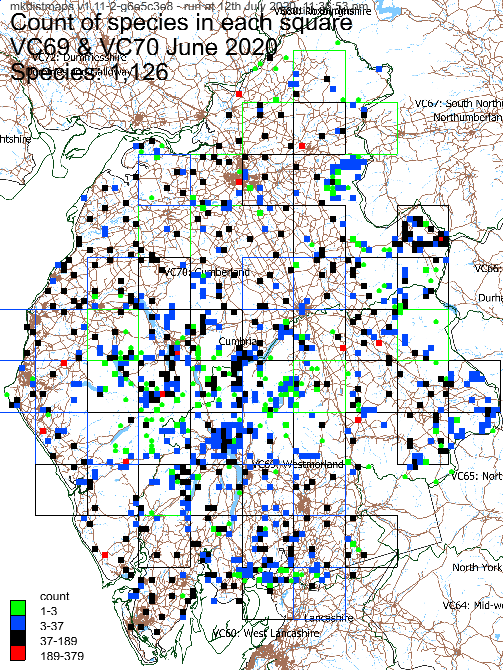
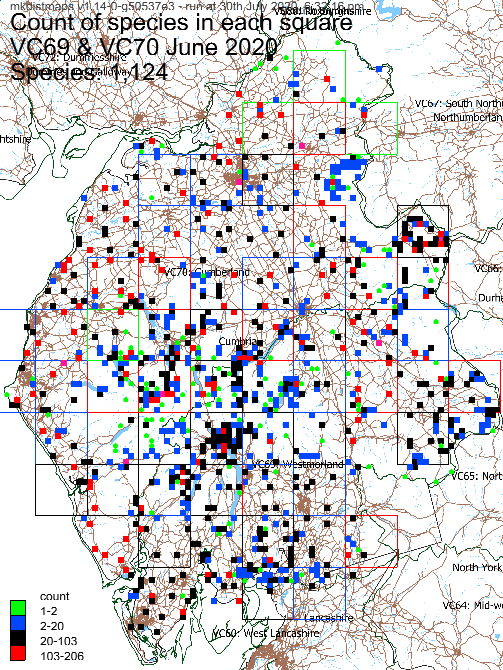
Fix species counts and total

diff --git a/mkdistmaps.js b/mkdistmaps.js
@@ -323,21 +323,27 @@ async function run(argv) {
 const speciesesGrids = {}
 let speciesCount = 0
 let genusCount = 0
+let allCount = 0;
 const errors = []
 let lineno = 0
 let records = 0
 let empties = 0
 const boxes = {}
 
-function updateSpeciesesGrids(TaxonName, box, Year, isGenus, fileSpecieses, makeAllSpeciesMapTaxon) {
+function updateSpeciesesGrids(TaxonName, box, Year, isGenus, fileSpecieses, inTotal, makeAllSpeciesMapTaxon) {
   if (isGenus) TaxonName += ' -all'
   let speciesGrids = speciesesGrids[TaxonName]
   if (!speciesGrids) {
-    speciesGrids = { max: 0, boxes: {} }
+    speciesGrids = { max: 0, speciesmax: 0, boxes: {} }
     speciesGrids.boxes[box] = { count: 0, minyear: 3000, maxyear: 0, species: [] }
     speciesesGrids[TaxonName] = speciesGrids
-    if (isGenus) genusCount++
-    else speciesCount++
+    if (inTotal) {
+      if (isGenus) genusCount++
+      else speciesCount++
+    } else {
+      allCount++
+    }
+
   }
   if (!speciesGrids.boxes[box]) {
     speciesGrids.boxes[box] = { count: 0, minyear: 3000, maxyear: 0, species: [] }
@@ -364,7 +370,11 @@ function updateSpeciesesGrids(TaxonName, box, Year, isGenus, fileSpecieses, make
   if (makeAllSpeciesMapTaxon) {
     if (!speciesGrids.boxes[box].species.includes(makeAllSpeciesMapTaxon)) {
       speciesGrids.boxes[box].species.push(makeAllSpeciesMapTaxon)
-      speciesGrids.boxes[box].count = speciesGrids.boxes[box].species.length
+      const totalspecies = speciesGrids.boxes[box].species.length
+      speciesGrids.boxes[box].count = totalspecies
+      if (totalspecies > speciesGrids.speciesmax) {
+        speciesGrids.speciesmax = totalspecies
+      }
     }
   }
 }
@@ -545,19 +555,19 @@ function processLine(file, row, fileSpecieses) {
   }
 
   // Add/Update record for species ie count, min and max year for each box
-  updateSpeciesesGrids(TaxonName, box, Year, false, fileSpecieses, false)
+  updateSpeciesesGrids(TaxonName, box, Year, false, fileSpecieses, true, false)
 
   if (config.makeAllMap) {
-    updateSpeciesesGrids(makeAllMapName, box, Year, false, fileSpecieses, false)
+    updateSpeciesesGrids(makeAllMapName, box, Year, false, fileSpecieses, false, false)
   }
 
   if (config.makeAllSpeciesMap) {
-    updateSpeciesesGrids(makeAllSpeciesMapName, box, Year, false, fileSpecieses, TaxonName)
+    updateSpeciesesGrids(makeAllSpeciesMapName, box, Year, false, fileSpecieses, false, TaxonName)
   }
 
   if (config.makeGenusMaps) {
     const words = TaxonName.split(' ')
-    updateSpeciesesGrids(words[0], box, Year, true, fileSpecieses, false)
+    updateSpeciesesGrids(words[0], box, Year, true, fileSpecieses, true, false)
   }
 }
 
@@ -577,7 +587,7 @@ async function importComplete(rowCount) {
   for (let i = 0; i < errors.length; i++) {
     console.error('#' + i, errors[i])
   }
-  if ((genusCount + speciesCount) !== Object.keys(speciesesGrids).length) {
+  if ((genusCount + speciesCount + allCount) !== Object.keys(speciesesGrids).length) {
     console.error('Taxon/Species/Grids mismatch:', genusCount, speciesCount, Object.keys(speciesesGrids).length)
   }
   console.log('Species:', speciesCount.toLocaleString('en'))
@@ -595,22 +605,23 @@ async function importComplete(rowCount) {
 }
 
 ///////////////////////////////////////////////////////////////////////////////////////
-function setCountColours(speciesGrids) {
+function setCountColours(speciesGrids, isAllSpeciesMap) {
   let next = 1
+  const max = isAllSpeciesMap ? speciesGrids.speciesmax : speciesGrids.max
   for (const countcolour of Object.values(config.countcolours)) {
     countcolour.imin = countcolour.min
     if (typeof countcolour.min === 'string') {
-      countcolour.imin = Math.floor(parseFloat(countcolour.min) * speciesGrids.max / 100)
+      countcolour.imin = Math.floor(parseFloat(countcolour.min) * max / 100)
     }
     countcolour.imax = countcolour.max
     if (typeof countcolour.max === 'string') {
-      countcolour.imax = Math.floor(parseFloat(countcolour.max) * speciesGrids.max / 100)
+      countcolour.imax = Math.floor(parseFloat(countcolour.max) * max / 100)
     }
     if (countcolour.imin <= next) countcolour.imin = next
     if (countcolour.imax <= next) countcolour.imax = next++
     countcolour.legend = countcolour.imin.toLocaleString('en') + '-' + countcolour.imax.toLocaleString('en')
-    if (countcolour.imax > speciesGrids.max) countcolour.imax = speciesGrids.max
-    if (countcolour.imin > speciesGrids.max) countcolour.legend = ''
+    if (countcolour.imax > max) countcolour.imax = max
+    if (countcolour.imin > max) countcolour.legend = ''
   }
 }
 
@@ -696,7 +707,7 @@ async function make_images(rowCount) {
     ctx.fillText(config.recordset.title, config.basemap.title_x, config.basemap.title_y + config.basemap.title_y_inc)
 
     if (config.maptype === 'count') {
-      setCountColours(speciesGrids)
+      setCountColours(speciesGrids, isAllSpeciesMap)
     }
 
     // Go through all boxes found for this species
@@ -745,8 +756,8 @@ async function make_images(rowCount) {
         ctx.fillText(box, boxloc.x, boxloc.y + boxwidth)
       }
     }
-    // Write number of records
 
+    // Write number of records
     ctx.fillStyle = config.font_colour
     ctx.font = config.basemap.title_fontsize + " 'TheFont'"
     if (isAllSpeciesMap) {
@@ -807,7 +818,7 @@ async function make_geojson(rowCount) {
     const isAllSpeciesMap = MapName === makeAllSpeciesMapName
 
     if (config.maptype === 'count') {
-      setCountColours(speciesGrids)
+      setCountColours(speciesGrids, isAllSpeciesMap)
     }
 
     const geojson = {}
@@ -909,14 +920,14 @@ async function make_geojson(rowCount) {
 
         feature.properties = {
           color: '#' + color.substring(0, 6),
-          text: box + ': ' + boxdata.count
+          text: box + ': '
         }
         if (isAllSpeciesMap) {
-          feature.properties.text += ' species '
+          feature.properties.text += boxdata.species.length + ' species '
           boxdata.species.sort()
-          feature.properties.species = boxdata.species.join('|')
+          feature.properties.species = boxdata.species.join('| ')
         } else {
-          feature.properties.text += boxdata.count > 1 ? ' records ' : ' record '
+          feature.properties.text += boxdata.count + (boxdata.count > 1 ? ' records ' : ' record ')
         }
         if (boxdata.minyear !== boxdata.maxyear) {
           feature.properties.text += boxdata.minyear + '-' + boxdata.maxyear

diff --git a/tests/geojson2.test.js b/tests/geojson2.test.js
@@ -13,6 +13,9 @@ test('GEOJSON COUNT #2', async () => {
 
   if (rv === 1) {
     rv = await testhelper.checkFilesEqual('tests/expected/GB1-Species-Count.geojson', 'tests/output2/GB1-Species.geojson')
+    if (rv) {
+      rv = await testhelper.checkFilesEqual('tests/expected/GB1-All-species.geojson', 'tests/output2/All species.geojson')
+    }
   }
 
   expect(rv).toBe(1)
